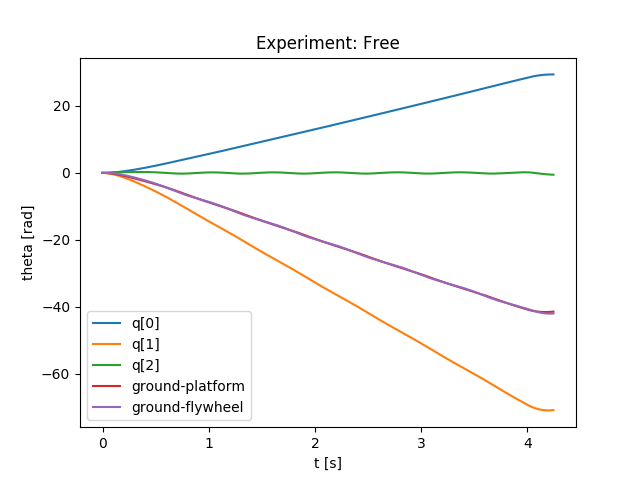
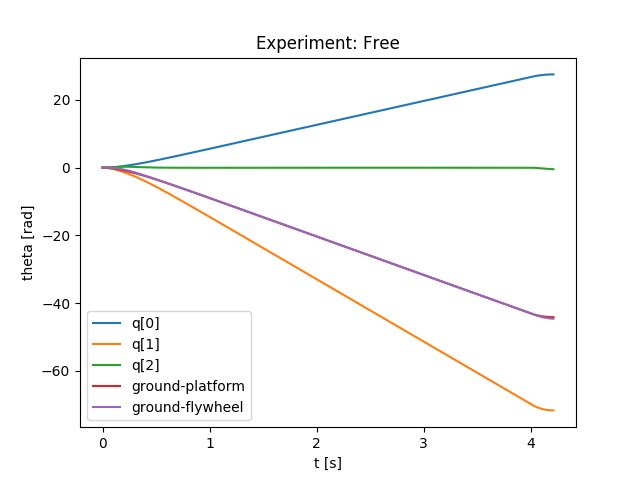
Supres vibration + double

diff --git a/software/mechanical_computations/lagrange_5.py b/software/mechanical_computations/lagrange_5.py
@@ -16,14 +16,16 @@ class Experiment(Enum):
     Free = 3
     Compose = 4
     Waitress = 5
+    Double = 6
 
 
-experiment = Experiment.Waitress
+experiment = Experiment.Double
 
 time_to_stop = {
     Experiment.Horizontal: 2.59,
     Experiment.Waitress_Old: 2.59,
     Experiment.Free: 4,
+    Experiment.Double: 3.56,
     Experiment.Compose: 3.54,
     Experiment.Waitress: 4.1,
 }
@@ -58,6 +60,14 @@ def external_torque(robot, t, q, dot_q, ddot_q):
             wheel_signal = -2*robot.max_torque(0)
         else:
             wheel_signal = +2*robot.max_torque(0)
+    elif experiment == Experiment.Double:
+        if t < time_to_stop[experiment]:
+            wheel_signal = -2*robot.max_torque(0)
+            flywheel_signal = -robot.max_torque(0)
+        else:
+            wheel_signal = +2*robot.max_torque(0)
+            flywheel_signal = robot.max_torque(0)
+
 
     elif experiment == Experiment.Waitress_Old:
         if t < time_to_stop[experiment]:
@@ -122,7 +132,20 @@ t_hist = []
 
 
 def system_function(robot: Robot):
-    M = numpy.matrix([[robot.I_wheel()+robot.I_platform() + robot.I_flywheel(robot.r_min()) + robot.m_total() * robot.r_wheel**2,
+    if experiment == Experiment.Free or experiment == Experiment.Double :
+        M = numpy.matrix([[robot.I_wheel()+robot.I_platform() + robot.I_flywheel(robot.r_max()) + robot.m_total() * robot.r_wheel**2,
+                       robot.I_platform() + robot.I_flywheel(robot.r_max()),
+                       robot.I_flywheel(robot.r_max())],
+                      [robot.I_platform() + robot.I_flywheel(robot.r_max()),
+                       robot.I_platform() + robot.I_flywheel(robot.r_max()),
+                       robot.I_flywheel(robot.r_max())],
+                      [robot.I_flywheel(robot.r_max()),
+                       robot.I_flywheel(robot.r_max()),
+                       robot.I_flywheel(robot.r_max())]
+                      ])
+        a = 0
+    else:
+        M = numpy.matrix([[robot.I_wheel()+robot.I_platform() + robot.I_flywheel(robot.r_min()) + robot.m_total() * robot.r_wheel**2,
                        robot.I_platform() + robot.I_flywheel(robot.r_min()),
                        robot.I_flywheel(robot.r_min())],
                       [robot.I_platform() + robot.I_flywheel(robot.r_min()),
@@ -132,9 +155,8 @@ def system_function(robot: Robot):
                        robot.I_flywheel(robot.r_min()),
                        robot.I_flywheel(robot.r_min())]
                       ])
+        a = robot.m_cylinder() * (robot.r_min()-robot.r_max()) * robot.g
 
-    desired_angle = 0
-    a = robot.m_cylinder() * (robot.r_min()-robot.r_max()) * robot.g
 
     def aux_function(t, x):
         q = x[0:3]
